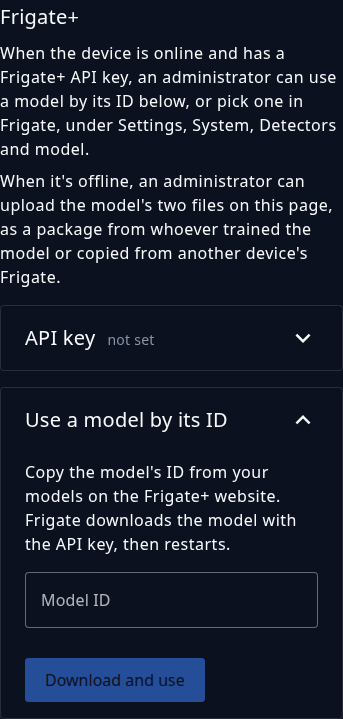
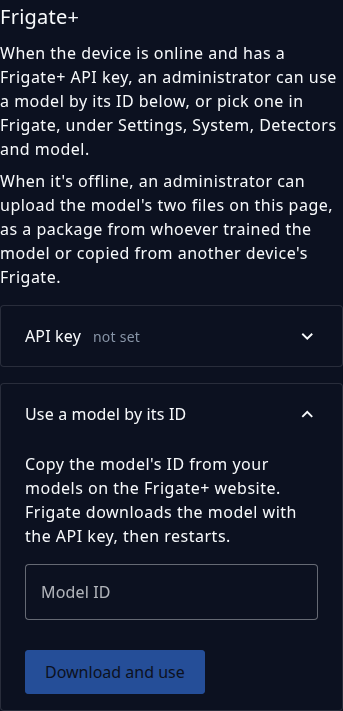
Give the model ID panel the same heading as the key panel
The "Use a model by its ID" panel title was a plain button at the size
of the Frigate+ heading above it. It now sits in an h3 with the title
at the size of the key panel's, as on the Location page. The page test
checks that both panel titles are headings smaller than the section's
h2, the UI README's sketch and notes say so, the docs image text names
both panels, and both Detection screenshots are retaken.

Assisted-by: Claude Code 2.1.325 (CLI)
AI-Model: Claude Sonnet 5.5 (claude-sonnet-5-5)
AI-Role: drafted

diff --git a/tm-control/ui/tests/detection-page.spec.ts b/tm-control/ui/tests/detection-page.spec.ts
@@ -529,8 +529,14 @@ describe('the Detection page', () => {
     expect(toggle.attributes('aria-expanded')).toBe('false')
     expect(wrapper.find('#frigate-plus form').exists()).toBe(true)
     expect(wrapper.find('#frigate-plus h3').text()).toBe('API key not set') // the panel's title sits inside a heading
-    expect(wrapper.findAll('#frigate-plus h3')).toHaveLength(1) // the form's own title is hidden: this one says it
+    // the key form's own title is hidden: the panel titles are the only h3s, one each
+    expect(wrapper.findAll('#frigate-plus h3').map((h) => h.text())).toEqual(['API key not set', 'Use a model by its ID'])
     expect(toggle.element.closest('h3')).not.toBeNull()
+    expect(panel(wrapper, 'Use a model by its ID').element.closest('h3')).not.toBeNull()
+    for (const h of wrapper.findAll('#frigate-plus h3')) {
+      expect(h.classes()).toContain('text-body-1') // smaller than the section's h2, which is text-h6
+      expect(h.find('.text-subtitle-1').exists()).toBe(true)
+    }
     await toggle.trigger('click')
     expect(toggle.attributes('aria-expanded')).toBe('true')
     expect(wrapper.text()).not.toContain('ThingsBoard access token')

diff --git a/tm-control/ui/src/modules/detection/DetectionPage.vue b/tm-control/ui/src/modules/detection/DetectionPage.vue
@@ -566,7 +566,11 @@ function openUpload() {
           </v-expansion-panel-text>
         </v-expansion-panel>
         <v-expansion-panel :value="MODEL_PANEL" class="border" eager>
-          <v-expansion-panel-title class="text-h6">Use a model by its ID</v-expansion-panel-title>
+          <h3 class="text-body-1">
+            <v-expansion-panel-title>
+              <span class="text-subtitle-1 font-weight-medium">Use a model by its ID</span>
+            </v-expansion-panel-title>
+          </h3>
           <v-expansion-panel-text>
             <PlusModelById
               :key="plusForms"

diff --git a/tm-control/ui/README.md b/tm-control/ui/README.md
@@ -534,8 +534,9 @@ Object detection, Model in use, Frigate+, Other models on this device.
 | a Frigate+ API key, pick ...       |
 | When it's offline, an              |  <- both paragraphs: everyone
 | administrator can upload ...       |
-| > API key  set, ending in 0001     |  <- admins: two panels, closed;
-| > Use a model by its ID            |     a viewer sees no panels
+| > API key  set, ending in 0001     |  <- admins: two panels, closed (an
+| > Use a model by its ID            |     h3 holds each title); a viewer
+|                                    |     sees no panels
 |                                    |
 | Other models on this device (2)(h2)|
 | [Upload a model]                   |
@@ -630,10 +631,10 @@ and the Frigate+ text.
   no panels. The section does not wait for `GET /models`, so it shows, and the key's form works, when the models can't
   load. The Status page's "Set the key" links to `/detection#frigate-plus`, which opens the key's panel and scrolls to
   the section, and its "Choose a model" to `/detection#frigate-plus-model`, which opens the ID panel the same way. The
-  panels' content is rendered while closed (`eager`), so the page's height is known when the link scrolls. The key
-  panel's title, a button, sits inside an h3 (`text-body-1`, like the Location page's panels), with "API key" in
-  `text-subtitle-1 font-weight-medium`, the size of `EnteredSecret`'s own h3 on the Device page. At `text-h6` it read as
-  large as the section's h2. The key's form is the Device page's (`EnteredSecret.vue`) without its own heading and
+  panels' content is rendered while closed (`eager`), so the page's height is known when the link scrolls. Each
+  panel's title, a button, sits inside an h3 (`text-body-1`, like the Location page's panels), with its words ("API
+  key", "Use a model by its ID") in `text-subtitle-1 font-weight-medium`, the size of `EnteredSecret`'s own h3 on the
+  Device page. At `text-h6` they read as large as the section's h2. The key's form is the Device page's (`EnteredSecret.vue`) without its own heading and
   state line.
 - The ID panel (`PlusModelById.vue`) is a short paragraph on where the ID is, one field, "Model ID", and one 44 px button,
   "Download and use". The field takes a pasted `plus://` address and surrounding spaces, and says "A model ID is 32
@@ -713,8 +714,8 @@ through the `#frigate-plus` link, and through a Use and a Delete:
   read "(91)" over rows of `unknown` chips while the card said 17. The API now leaves `unknown` out of every list.
 - Looked at and kept: at 375 px each list title in the fold wraps and its Copy sits on its own row. Nothing overlaps,
   and Copy sat on its own row inside the old panels too.
-- The panel title "API key" was at `text-h6`, as large as the "Frigate+" h2 above it, and had no heading around it.
-  It now sits in an h3 at the size of the Device page's key titles.
+- The panel titles ("API key", and "Use a model by its ID" after it) were at `text-h6`, as large as the "Frigate+" h2
+  above them, and had no heading around them. Each now sits in an h3 at the size of the Device page's key titles.
 
 #### Defaults rejected
 

diff --git a/docs/use/detection.md b/docs/use/detection.md
@@ -15,7 +15,7 @@ The control app's **Detection** page shows what the device looks for and which A
 * **[Frigate+](#frigate-plus)** is how to get a Frigate+ model, and where administrators set the API key and use a model by its ID.
 * **Other models on this device** lists the rest, and its title counts them.
 
-![The Detection page on a phone, as an administrator: the Detector and Running model facts, then the model in use, its Files and objects opened to show the two lists of objects and the model's files, then the Frigate+ section with its API key panel closed, and the other models](../assets/images/detection-page-models.png){ width="300" }
+![The Detection page on a phone, as an administrator: the Detector and Running model facts, then the model in use, its Files and objects opened to show the two lists of objects and the model's files, then the Frigate+ section with its API key and model ID panels closed, and the other models](../assets/images/detection-page-models.png){ width="300" }
 
 Each model is a card with its name, its kind (Frigate+ or local), and when it was trained and what it's built for (when it says). Select **Files and objects** on a card to see its files, with their sizes and the start of each file's SHA-256 hash, and [the objects it recognises](#what-the-model-recognises). A model with no list of objects has **Files** instead, and the running model's card with no files has **Objects**. A mark says when the model is:
 
